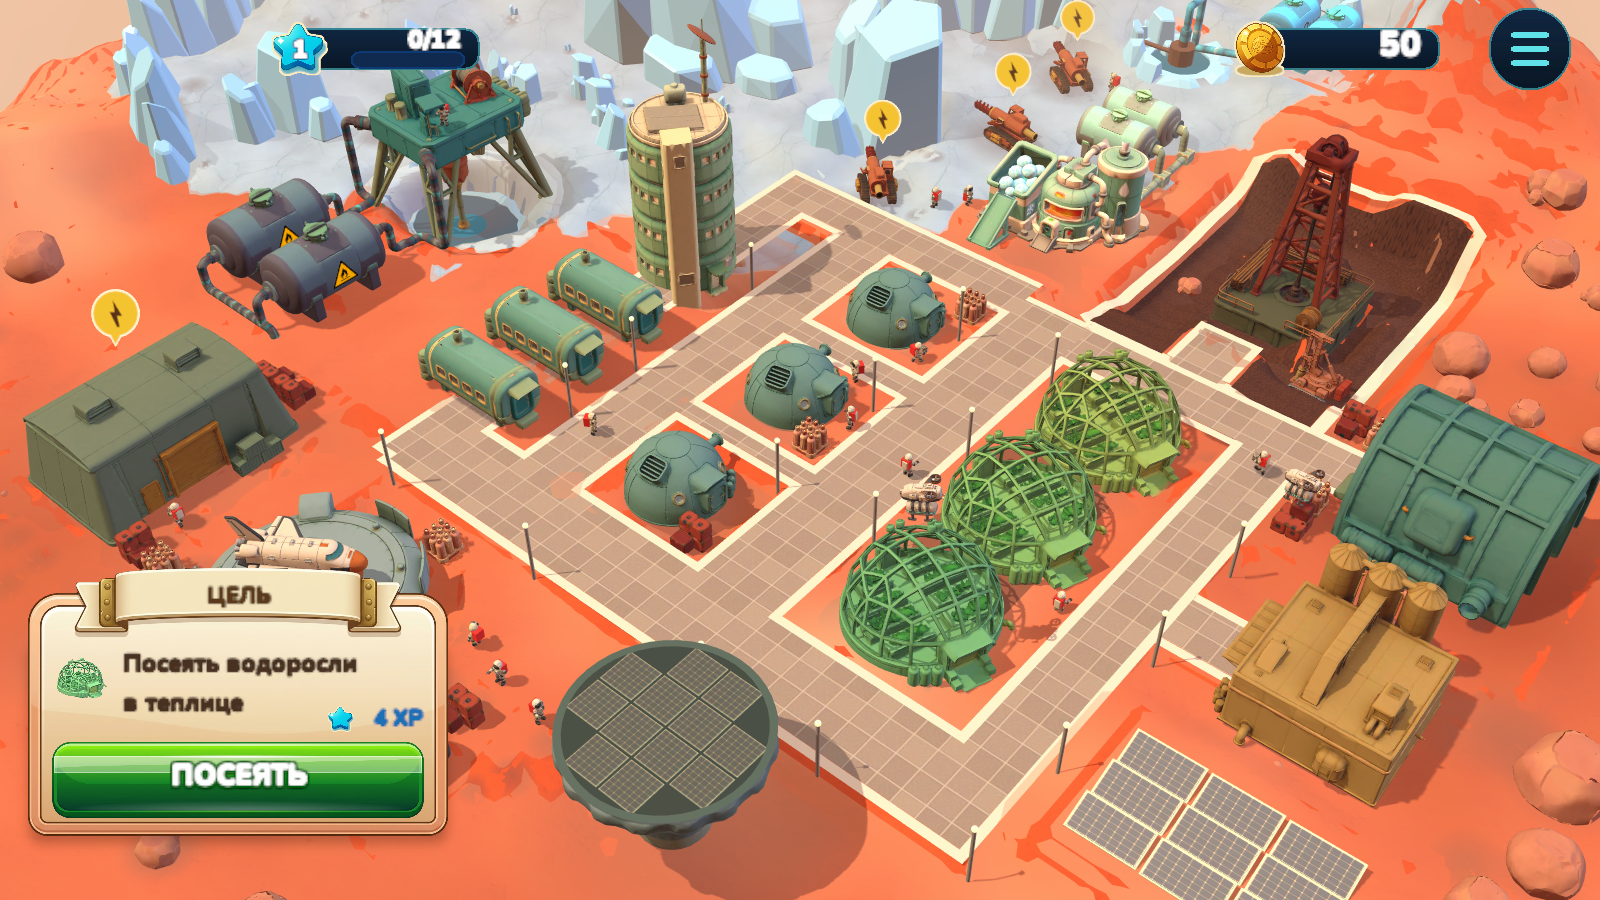
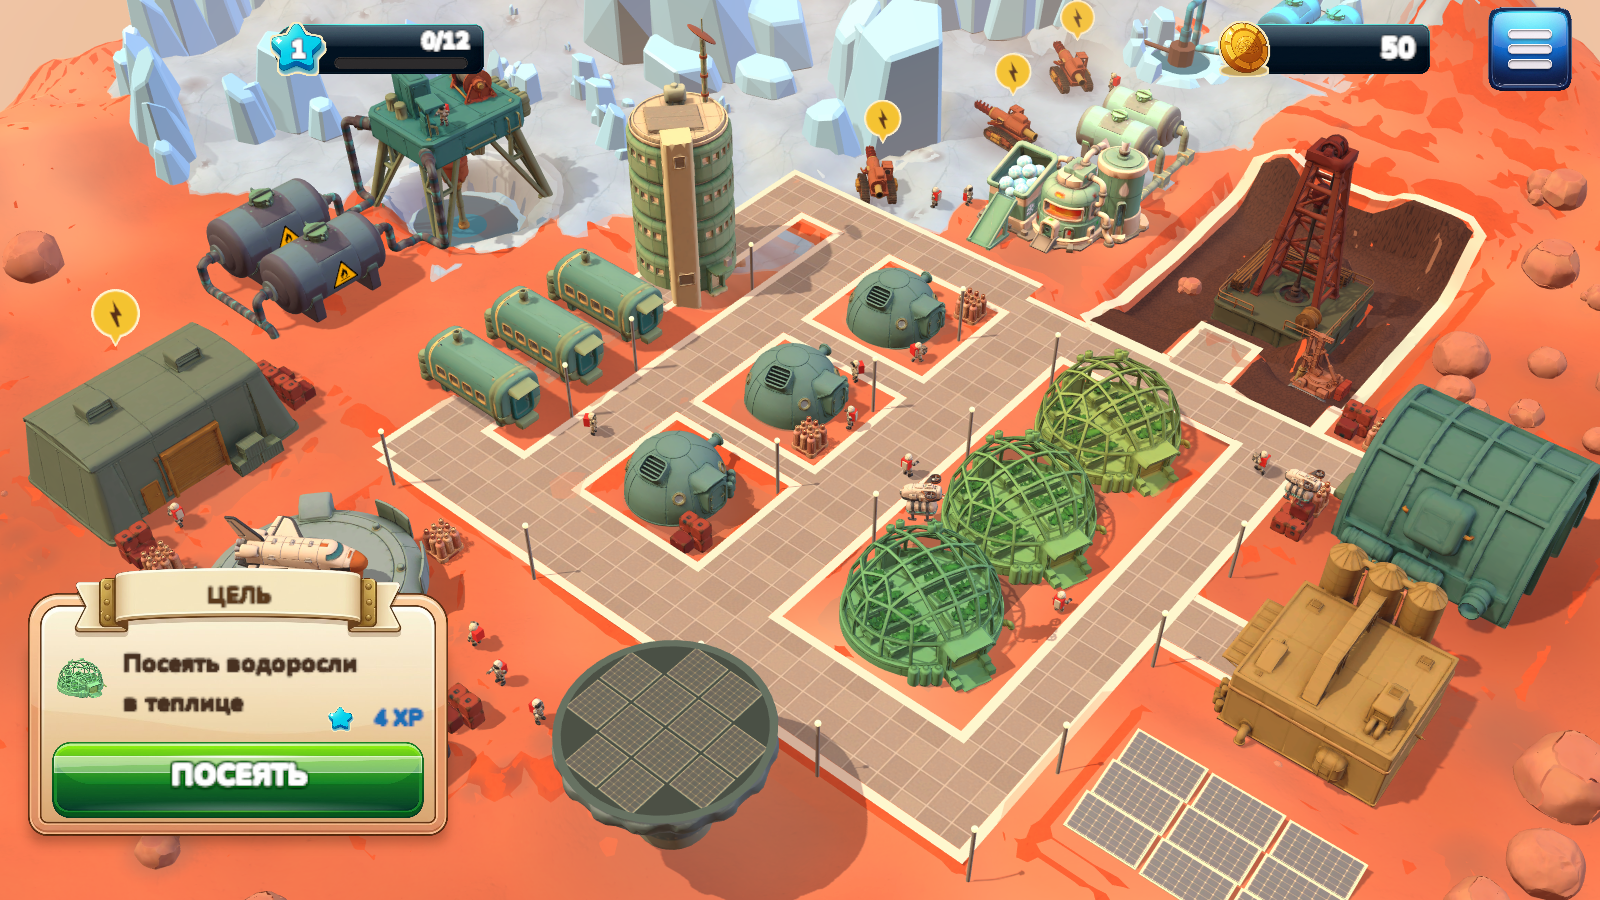
Пилот HUD на элементах заказчика: кадры, вырезка с полостями, BRIEF

Changed region(s): [[0.75, 0.0, 1.0, 0.1244], [0.1562, 0.0, 0.3125, 0.0933]]

diff --git a/tools/element_narezka.py b/tools/element_narezka.py
@@ -96,6 +96,7 @@ def main():
     p.add_argument("--dopusk", type=int, default=60, help="не используется в маске по оттенку, оставлен для совместимости")
     p.add_argument("--erozia", type=int, default=2, help="на сколько px съесть кромку")
     p.add_argument("--imya", default=None)
+    p.add_argument("--dyrki", action="store_true", help="фон и внутри замкнутых полостей (кружок капсулы)")
     a = p.parse_args()
     im = Image.open(a.vhod).convert("RGB"); arr = np.asarray(im)
     if a.fon:
@@ -103,7 +104,7 @@ def main():
     else:
         ugly = np.array([arr[0, 0], arr[0, -1], arr[-1, 0], arr[-1, -1]]); fon = tuple(int(v) for v in np.median(ugly, 0))
     fon_m = maska_po_ottenku(arr, fon)
-    fon_dost = zalivka_ot_kraev(fon_m)
+    fon_dost = fon_m if a.dyrki else zalivka_ot_kraev(fon_m)
     elem = erozia(~fon_dost, a.erozia)
     ys, xs = np.where(elem)
     if len(ys) == 0:

diff --git a/memory/log.md b/memory/log.md
@@ -1,2 +1,3 @@
 2026-09-04 — ночной цикл интерфейса (8 витков, отчёт loop/ui/OTCHET-nochi.md); днём: иконки ресурсов все 20 приняты, маяк цели над теплицей, клик в Play подтверждён, пилот на ките Wenrexa принят инспектором, но заказчик забраковал цвета — переход на генерацию элементов по паспорту. Инструменты: ui_zamer --fon, ikonka_zamer, ikonka_vyrezka, kit_perekraska. Коммиты во всех трёх репозиториях.
 2026-09-05 — утро: чекпоинт по запросу заказчика; метан m5 принят; медальоны на иконках заказчика; агенты спеки склада и паспорта элементов упали по лимиту 04.09, перезапущены.
+2026-09-05 — день: пилот генерированных элементов интерфейса собран (панель, кнопка, капсулы, бар, меню), тёплая палитра; спека склада и паспорт элементов готовы; ждём остальное: склад.
